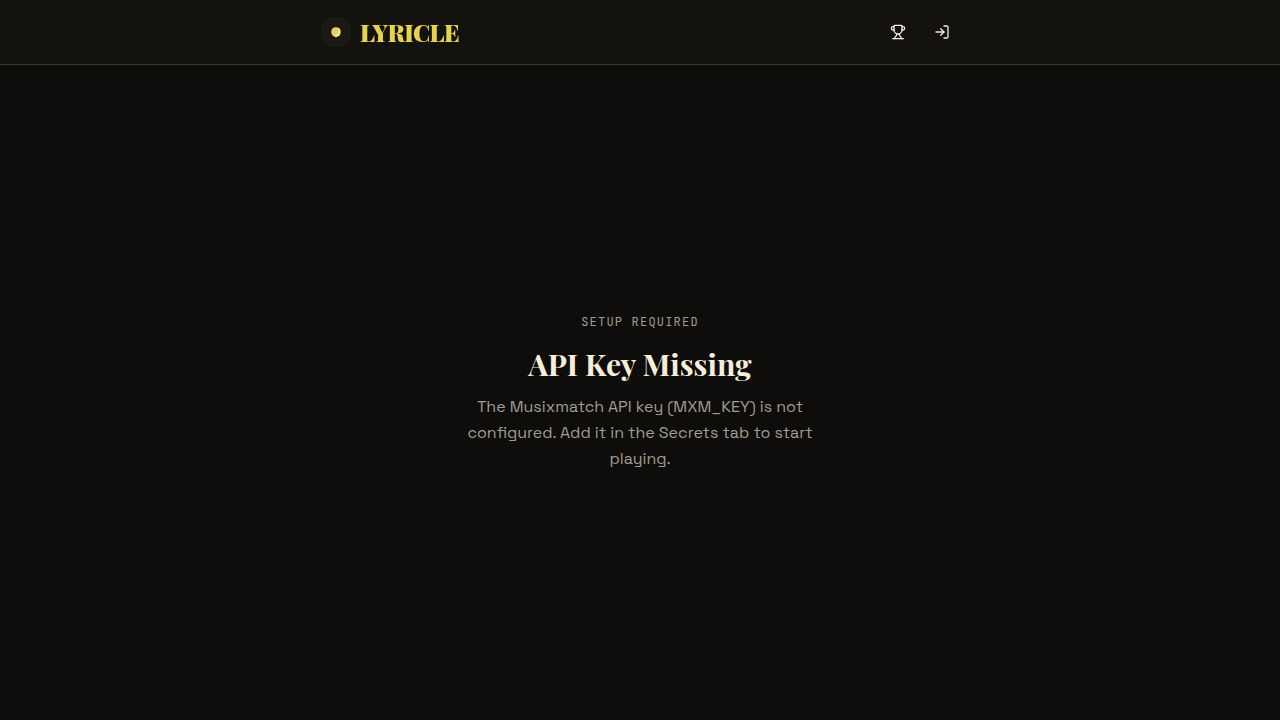
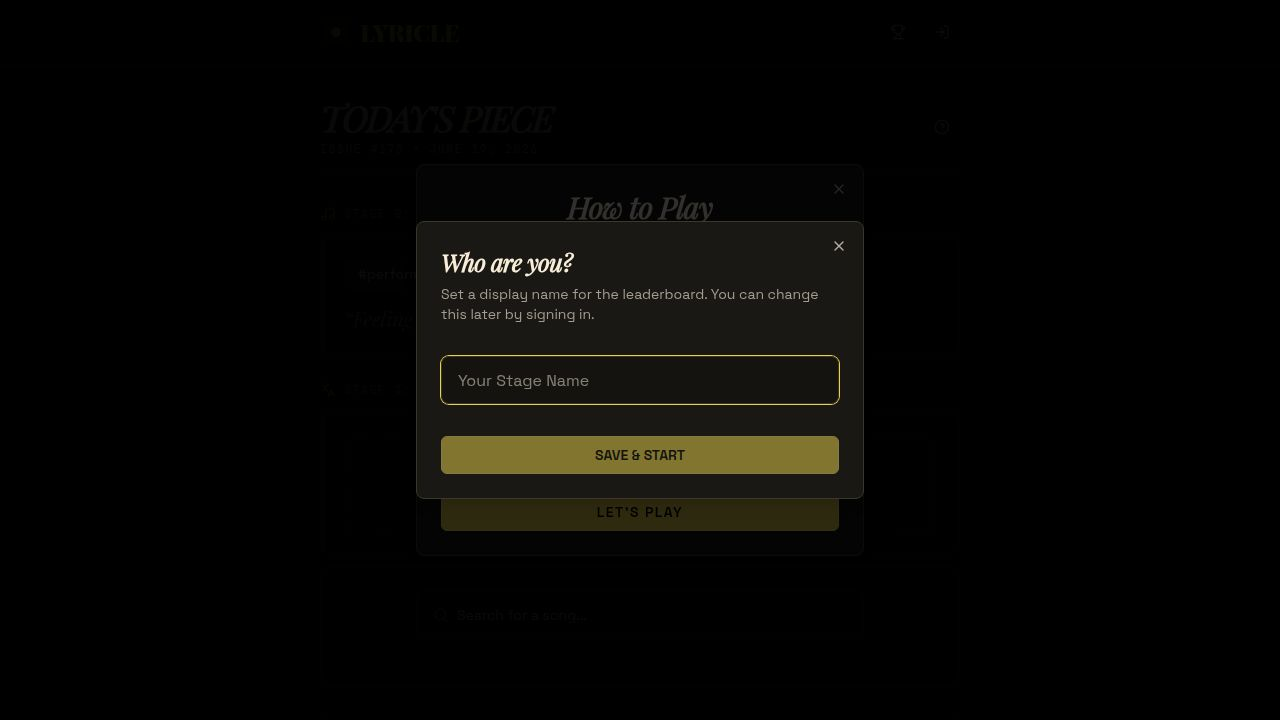
feat: Add Spotify album art & audio preview to Stage 4 clue card
## Original task
Add a Spotify album art & audio preview to the final clue stage (Stage 4 "Audio Preview"). The stage had the Spotify embed iframe code in place but curated songs returned albumArtUrl: null, so no album art appeared above the player.

## Changes made

### artifacts/api-server/src/lib/puzzle.ts
- Added `fetchSpotifyAlbumArt(trackId)` helper that calls Spotify's oEmbed API
  (`https://open.spotify.com/oembed?url=https://open.spotify.com/track/{id}`)
  and extracts `thumbnail_url` from the JSON response, with a 5-second timeout
  and graceful null-fallback on failure.
- Updated `buildClue4` for curated puzzles to call `fetchSpotifyAlbumArt` and
  populate `albumArtUrl` (was hardcoded to null). Live MXM tracks already had
  album art from Musixmatch; curated songs now get it from oEmbed.
- Verified: `/api/puzzle/clue/4` now returns a valid CDN URL for albumArtUrl
  alongside the spotifyTrackId for today's curated puzzle.

### artifacts/lyricle/src/components/ClueCard.tsx
- Stage 4 album art display: increased size to 160×160, removed the blur/opacity
  treatment and pulsing music icon overlay (this is the final clue, so the art
  should be visible), added a subtle gradient overlay for polish.
- Spotify embed iframe: upgraded height from 80→152 for a fuller player, added
  `theme=0` parameter for dark mode matching the game UI, added proper `allow`
  permissions (`autoplay; clipboard-write; encrypted-media; fullscreen;
[…]

diff --git a/artifacts/lyricle/src/components/ClueCard.tsx b/artifacts/lyricle/src/components/ClueCard.tsx
@@ -99,27 +99,33 @@ export default function ClueCard({ clue, index, revealed }: ClueCardProps) {
               )}
 
               {index === 4 && (
-                <div className="flex flex-col gap-4">
+                <div className="flex flex-col gap-5">
                   {clue.albumArtUrl && (
-                    <div className="relative w-32 h-32 rounded-lg overflow-hidden border border-border mx-auto shadow-2xl">
-                      <img src={clue.albumArtUrl} alt="Album Art" className="w-full h-full object-cover blur-sm opacity-50" />
-                      <div className="absolute inset-0 flex items-center justify-center bg-black/40">
-                        <Music className="w-8 h-8 text-primary animate-pulse" />
+                    <div className="flex justify-center">
+                      <div className="relative w-40 h-40 rounded-xl overflow-hidden border border-border shadow-2xl ring-1 ring-white/10">
+                        <img
+                          src={clue.albumArtUrl}
+                          alt="Album Art"
+                          className="w-full h-full object-cover"
+                        />
+                        <div className="absolute inset-0 bg-gradient-to-t from-black/30 to-transparent" />
                       </div>
                     </div>
                   )}
                   {clue.spotifyTrackId ? (
                     <iframe
-                      src={`https://open.spotify.com/embed/track/${clue.spotifyTrackId}`}
+                      src={`https://open.spotify.com/embed/track/${clue.spotifyTrackId}?utm_source=generator&theme=0`}
                       width="100%"
-                      height="80"
+                      height="152"
                       frameBorder="0"
                       allowTransparency={true}
-                      allow="encrypted-media"
-                      className="rounded-lg shadow-lg"
+                      allow="autoplay; clipboard-write; encrypted-media; fullscreen; picture-in-picture"
+                      loading="lazy"
+                      className="rounded-xl shadow-lg"
+                      style={{ colorScheme: "normal" }}
                     />
                   ) : clue.previewUrl ? (
-                    <audio controls className="w-full h-10 mt-2 opacity-80 contrast-125">
+                    <audio controls className="w-full mt-1 opacity-90">
                       <source src={clue.previewUrl} type="audio/mpeg" />
                       Your browser does not support the audio element.
                     </audio>

diff --git a/artifacts/api-server/src/lib/puzzle.ts b/artifacts/api-server/src/lib/puzzle.ts
@@ -284,15 +284,32 @@ async function buildClue3(puzzle: PuzzleCache): Promise<ClueData> {
   return { stage: 3, stageLabel: STAGE_LABELS[3], richsyncWords, richsyncDurationMs };
 }
 
+async function fetchSpotifyAlbumArt(trackId: string | null): Promise<string | null> {
+  if (!trackId) return null;
+  try {
+    const res = await fetch(
+      `https://open.spotify.com/oembed?url=https://open.spotify.com/track/${trackId}`,
+      { signal: AbortSignal.timeout(5000) },
+    );
+    if (!res.ok) return null;
+    const data = (await res.json()) as { thumbnail_url?: string };
+    return data.thumbnail_url ?? null;
+  } catch {
+    return null;
+  }
+}
+
 async function buildClue4(puzzle: PuzzleCache): Promise<ClueData> {
   // Curated fallback
   if (puzzle.curated) {
+    const spotifyTrackId = puzzle.curated.spotifyTrackId;
+    const albumArtUrl = await fetchSpotifyAlbumArt(spotifyTrackId);
     return {
       stage: 4,
       stageLabel: STAGE_LABELS[4],
       previewUrl: null,
-      albumArtUrl: null,
-      spotifyTrackId: puzzle.curated.spotifyTrackId,
+      albumArtUrl,
+      spotifyTrackId,
     };
   }
 